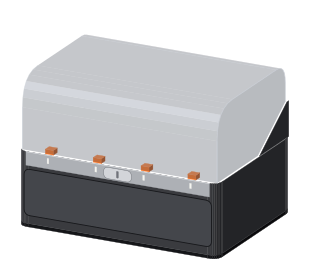
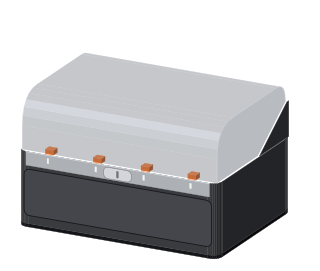
fix(unit-art): the ACE Pro lid sits just above its spools, as the real cover does
Lid height 0.707 -> 0.62 of the unit's width, leaving 0.034 over the 0.586-high spool tops instead of 0.121. Rebaked ace_pro layers and tray dome (crest 64.68 -> 48.60 px at the reference spool).

Changed region(s): [[0.0625, 0.1181, 0.9062, 0.4133]]

diff --git a/scripts/unit_art/units/ace_pro.py b/scripts/unit_art/units/ace_pro.py
@@ -5,7 +5,8 @@ from pathlib import Path
 from .. import kit, spool
 from ..kit import TrayShellDef, UnitDef
 
-W, D, H = 1.0, 0.72, 0.707
+# The lid clears the 0.586-high spool tops by 0.034, as close as the real cover sits.
+W, D, H = 1.0, 0.72, 0.62
 RAIL0, ZR = 0.293, 0.357
 BODY, PANEL, RAIL = "#3a3b3f", "#47494e", "#a9acb1"
 SMOKE = "#565d68"
